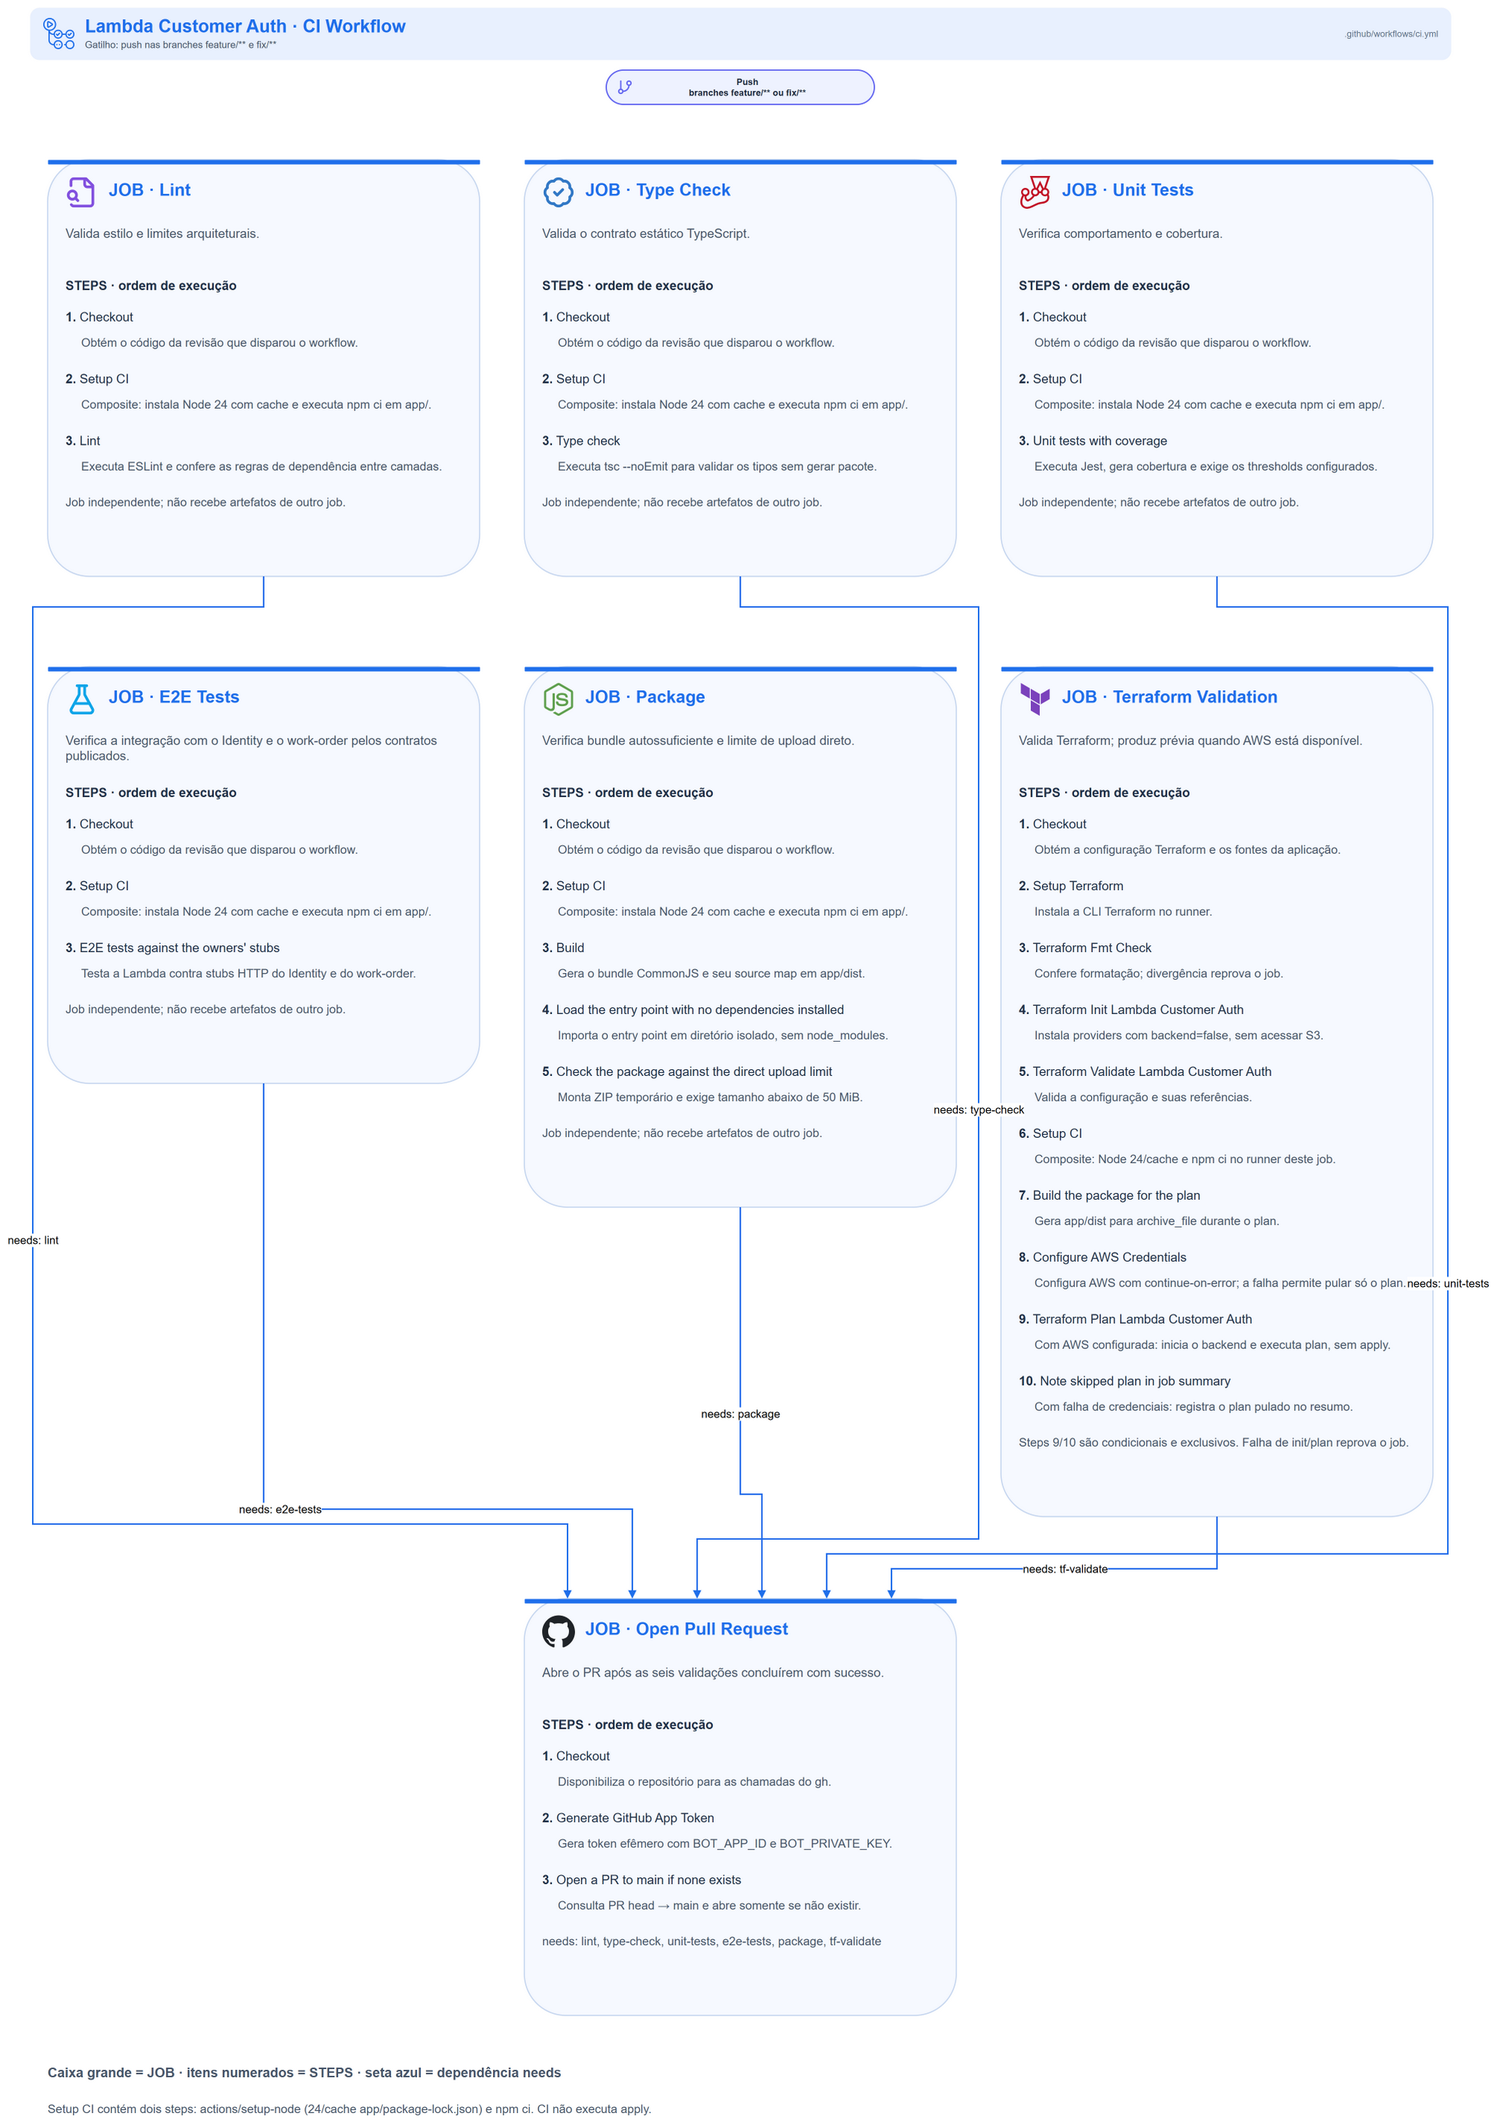
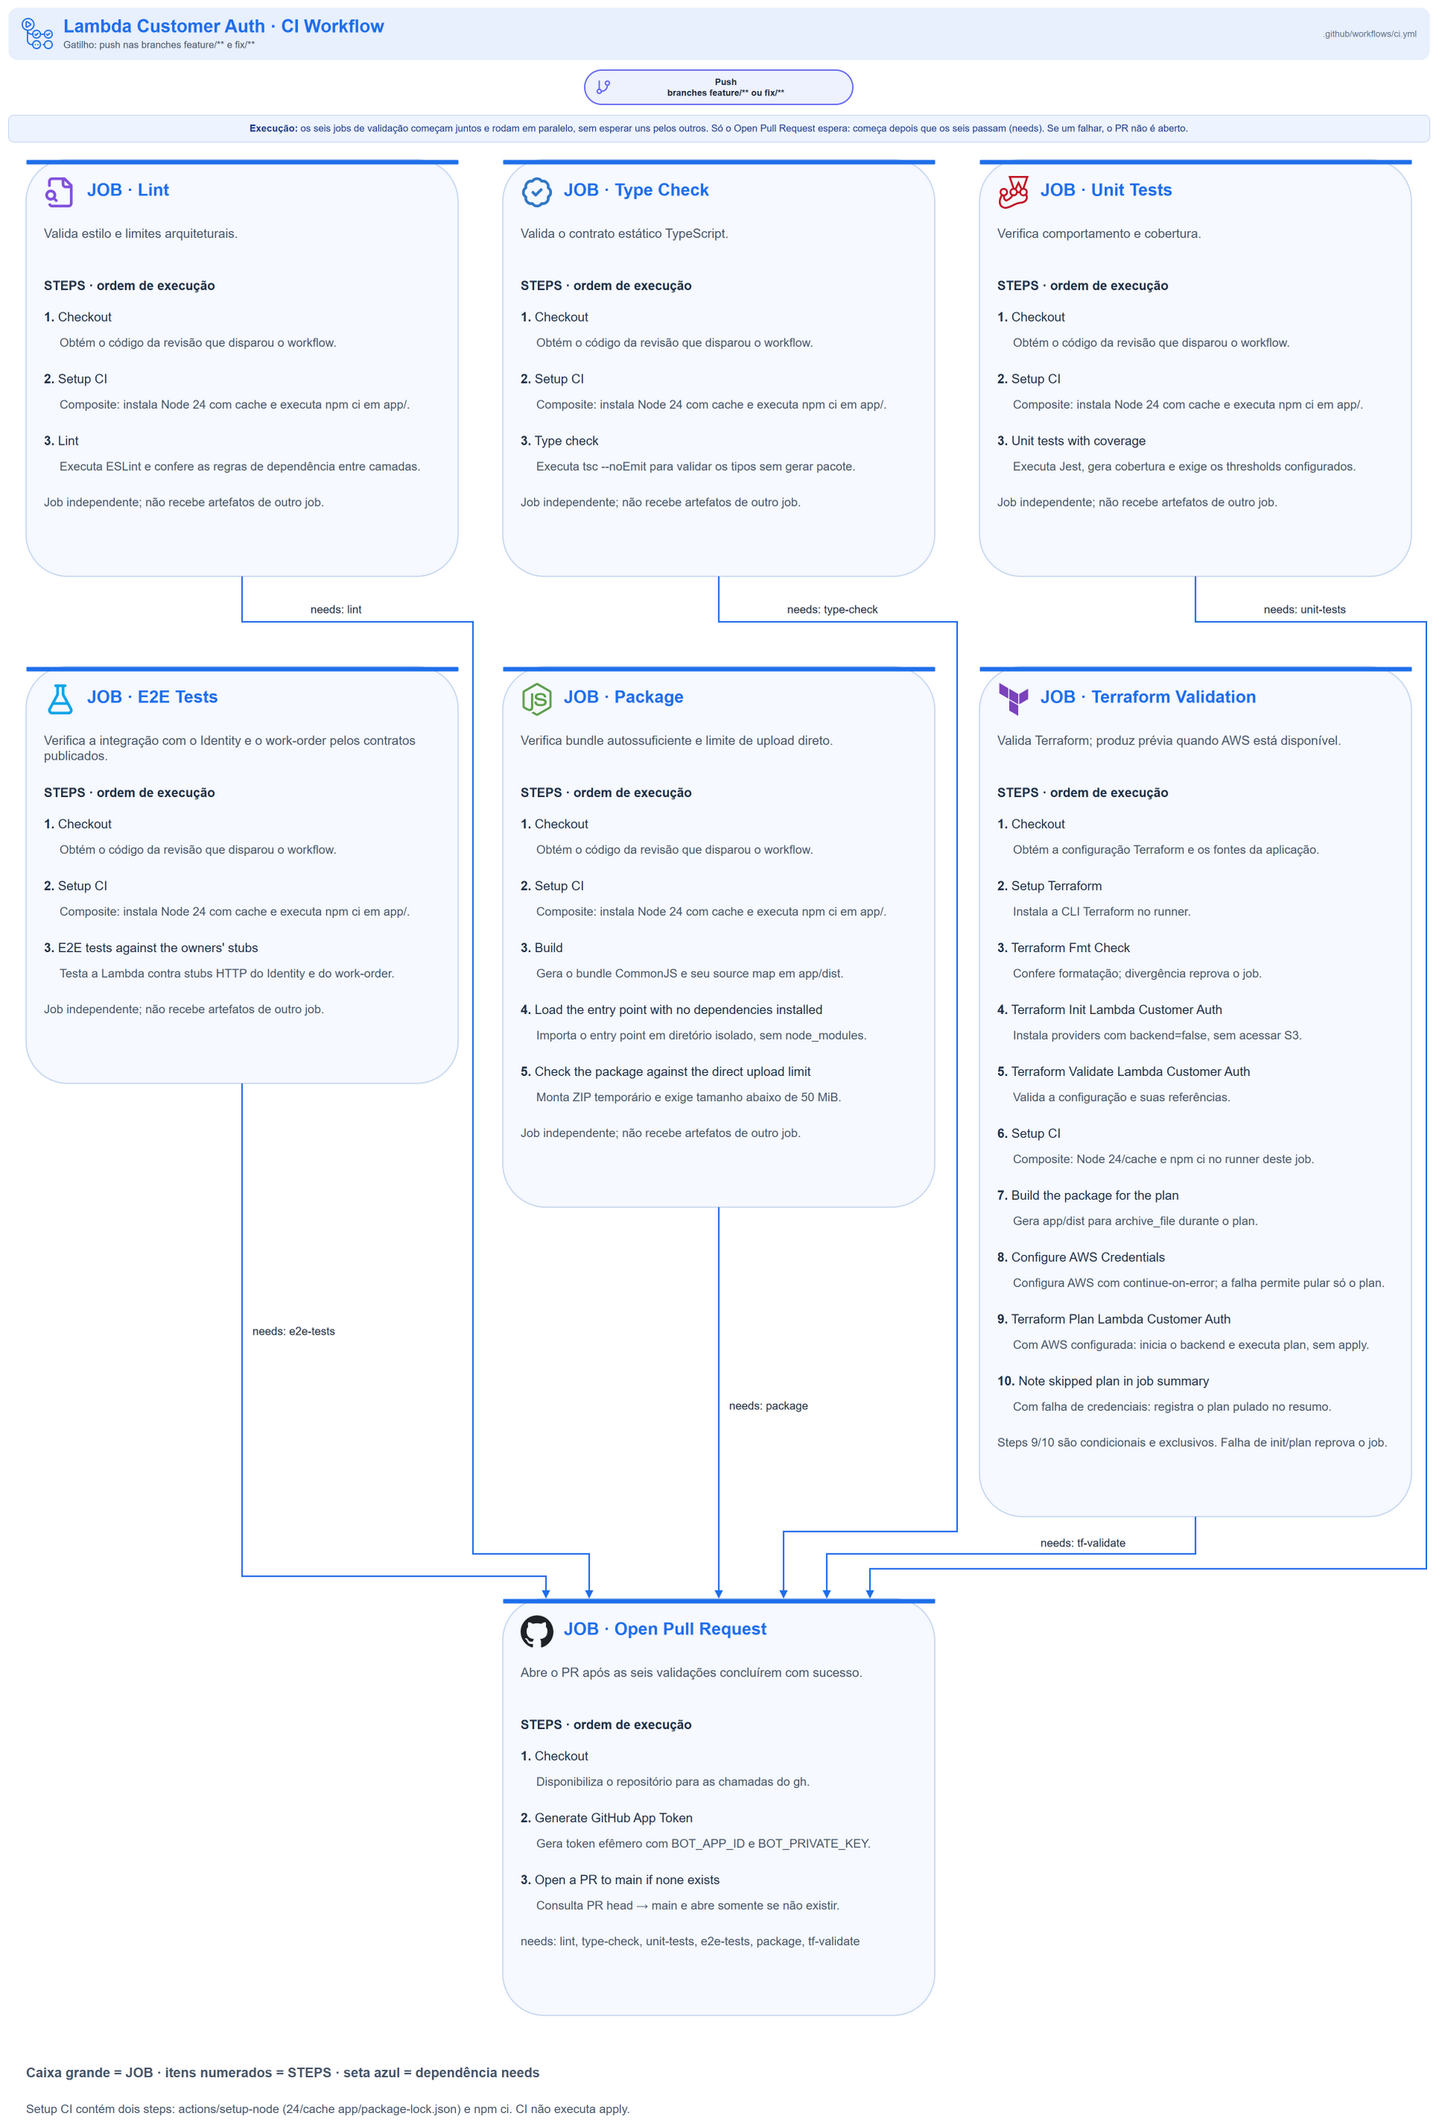
docs(lambda-customer-auth): name post-deploy checks, redraw ci and sast

diff --git a/docs/ci-cd.md b/docs/ci-cd.md
@@ -31,8 +31,8 @@ branch cancela a execução anterior.
 
 Uma branch fora de `feature/**` e `fix/**` não produz execução do CI.
 O SAST ainda pode executar em um Pull Request para `main`.
-Combinada com as verificações obrigatórias da `main`, essa ausência **é o quality gate
-de nomenclatura de branch**: o Pull Request fica em "aguardando reporte" até a
+Combinada com as verificações obrigatórias da `main`, essa ausência **é o que impõe
+o nome da branch**: o Pull Request fica em "aguardando reporte" até a
 branch ser renomeada. É intencional, e não se corrige afrouxando o gatilho.
 
 Os seis jobs de validação executam em paralelo. A abertura do Pull Request
@@ -203,13 +203,13 @@ aguarda o quality gate e reprova quando ele reprova.
 
 ## Entrega contínua
 
-![CD Workflow: gatilho em push na main ou workflow_dispatch, quality gate de entrada
+![CD Workflow: gatilho em push na main ou workflow_dispatch, condições de entrada
 por branch e interruptor, e os jobs Deploy Lambda (14 steps) e Post-Deploy Gates
-(4 steps: credenciais AWS e os três quality gates — invocação direta e rota pública
+(4 steps: credenciais AWS e as três verificações pós-implantação — invocação direta e rota pública
 com CPF inexistente, que exigem 401, e login do cliente semeado, que exige 200
 e o token aceito pelo work-order), ligados por needs: deploy](diagrams/cd-workflow.png)
 
-### Quality gates de entrada
+### Condições de entrada
 
 Duas condições de entrada e o escopo do job:
 
@@ -239,14 +239,14 @@ A entrega e a verificação vivem em **jobs separados**, encadeados por `needs`.
 
 | Job | O que faz | Quando executa |
 | --- | --- | --- |
-| `Deploy Lambda` | Publica a função (`apply` padrão) ou destrói a infraestrutura da função (`action=destroy`) | Passados os três quality gates de entrada |
+| `Deploy Lambda` | Publica a função (`apply` padrão) ou destrói a infraestrutura da função (`action=destroy`) | Atendidas as condições de entrada |
 | `Post-Deploy Gates` | Prova que o que foi publicado atende | Só se a entrega concluir com sucesso e `action != 'destroy'` |
 
-A separação é de leitura, e ela importa: quando um quality gate reprova, a função
+A separação é de leitura, e ela importa: quando uma verificação reprova, a função
 **foi** publicada — o que falhou foi a verificação. Com tudo no mesmo job, um
 `Deploy Lambda` vermelho sugeriria que o provisionamento não aconteceu, e a
-reação instintiva seria reverter. É o oposto do certo: os modos de falha que os
-quality gates pegam se consertam **para frente**.
+reação instintiva seria reverter. É o oposto do certo: os modos de falha que as
+verificações pegam se consertam **para frente**.
 
 `needs` sozinho já é a condição do segundo job — ele é pulado junto com o
 primeiro quando o interruptor está desligado, e não executa quando a entrega
@@ -285,13 +285,13 @@ falha.
 O nome da função e o endereço público chegam pelas saídas do job de entrega —
 nada é digitado, e nada é recalculado.
 
-### Os três quality gates pós-implantação
+### As três verificações pós-implantação
 
-Um provisionamento verde não é evidência de que a solução responde de fora. Os
+Um provisionamento verde não é evidência de que a solução responde de fora. As
 três vivem no job `Post-Deploy Gates`, depois de a entrega concluir, e qualquer
-um deles reprova a entrega.
+uma delas reprova a entrega.
 
-**Quality gate 1 — invocação direta.** Invoca a função com o CPF sintético
+**Verificação 1 — invocação direta.** Invoca a função com o CPF sintético
 `529.982.247-25`: válido pelos dígitos verificadores e ausente dos dados de
 exemplo (seeds) do Identity e do work-order. Prova, em cadeia: o pacote carrega,
 a configuração é válida, o segredo foi lido, a chave de assinatura importou e a
@@ -307,7 +307,7 @@ A discriminação vem de graça do tradutor de respostas que a função já tem:
 | `500` | Configuração inválida ou falha de assinatura |
 | Ausência de resposta da aplicação | Pacote ou rede quebrados |
 
-**Quality gate 2 — rota pública.** Envia o mesmo CPF a `POST /customer-auth/login` e
+**Verificação 2 — rota pública.** Envia o mesmo CPF a `POST /customer-auth/login` e
 exige `401`. O único elo que a invocação direta **não** exercita é a autorização
 de invocação concedida ao API Gateway. Sem ela a rota responde erro de
 integração com a função existindo e saudável — exatamente o estado que esta
@@ -320,7 +320,7 @@ ter vindo da função.
 Esse modo de falha **não se corrige revertendo**: a função está saudável, quem
 está errado é o recurso de autorização, e o conserto é para frente.
 
-**Quality gate 3 — login do cliente semeado.** Os dois primeiros só exercitam a recusa.
+**Verificação 3 — login do cliente semeado.** As duas primeiras só exercitam a recusa.
 Este faz o login de um cliente que existe no Identity e tem vínculo ativo no
 work-order, com o CPF e a senha guardados nos secrets `SEEDED_CUSTOMER_CPF` e
 `SEEDED_CUSTOMER_PASSWORD`, e exige `200`. Com o token recebido, chama
@@ -394,8 +394,8 @@ ser renovadas **juntas**.
 | `SONAR_TOKEN` | Segredo | SAST | Autenticação no serviço de análise estática | Sim |
 | `ENABLE_DEPLOY` | Variável | CD | Interruptor de entrega. Ausente ou diferente de `true`, o merge não provoca provisionamento. **Precisa ser de repositório**: a condição está no `if` do job, avaliado antes de o environment ser aplicado | Não (equivale a desligado) |
 | `ENABLE_TELEMETRY_COLLECTION` | Variável | CD | Interruptor da camada de coleta | Não (equivale a desligado) |
-| `SEEDED_CUSTOMER_CPF` | Segredo | CD | CPF do cliente semeado no Identity com vínculo ativo no work-order (`12345678909`), usado pelo quality gate 3 | Sim, para o quality gate 3 |
-| `SEEDED_CUSTOMER_PASSWORD` | Segredo | CD | Senha do seed do Identity para esse cliente | Sim, para o quality gate 3 |
+| `SEEDED_CUSTOMER_CPF` | Segredo | CD | CPF do cliente semeado no Identity com vínculo ativo no work-order (`12345678909`), usado pela verificação 3 | Sim, para a verificação 3 |
+| `SEEDED_CUSTOMER_PASSWORD` | Segredo | CD | Senha do seed do Identity para esse cliente | Sim, para a verificação 3 |
 
 Os dois `SEEDED_CUSTOMER_*` ficam no repositório, e não no environment, porque
 são a credencial de um cliente de exemplo criado pelo seed, cujo valor já está
@@ -436,8 +436,8 @@ criaria um segundo lugar para expirar.
 6. Confirmar que a cota de execuções concorrentes da conta comporta a reserva
    pretendida, deixando ao menos cem execuções não reservadas.
 7. Cadastrar `SEEDED_CUSTOMER_CPF` e `SEEDED_CUSTOMER_PASSWORD` como secrets do
-   repositório, com o CPF e a senha do cliente semeado no Identity. Sem eles, o
-   quality gate 3 reprova indicando os dois nomes.
+   repositório, com o CPF e a senha do cliente semeado no Identity. Sem eles, a
+   verificação 3 reprova indicando os dois nomes.
 
 ### Exposição aceita conscientemente
 
@@ -525,16 +525,16 @@ e voltaria a depender da mesma gravação.
 | Alternativa | Por que não |
 | --- | --- |
 | Federação por identidade do provedor de código | Exigiria criar um provedor de identidade **e** uma role. O laboratório não permite criar roles. Não é preferência, é impossibilidade |
-| Ampliar os prefixos de branch que disparam a validação | Transformaria o quality gate de nomenclatura de branch em convenção não verificada |
+| Ampliar os prefixos de branch que disparam a validação | Transformaria a exigência do nome da branch em convenção não verificada |
 | Gatilho por evento de Pull Request na validação | Duplicaria toda execução |
 | Verificação de tipos como passo dentro da construção | Economizaria uma instalação de dependências, ao custo de enfileirar a verificação mais provável de reprovar atrás de uma construção que passaria de qualquer forma |
-| E2E contra o Identity e o work-order reais, clonados e construídos na esteira | Exigiria construir e subir dois serviços com os seus bancos a cada `push`, e uma mudança alheia tornaria esta validação vermelha sem commit local; as fixtures publicadas pelos donos fixam o contrato, e o quality gate 3 prova contra os serviços reais |
+| E2E contra o Identity e o work-order reais, clonados e construídos na esteira | Exigiria construir e subir dois serviços com os seus bancos a cada `push`, e uma mudança alheia tornaria esta validação vermelha sem commit local; as fixtures publicadas pelos donos fixam o contrato, e a verificação 3 prova contra os serviços reais |
 | A validação produz o `.zip` e a entrega o consome como artefato | Exigiria acoplamento entre workflows por evento de execução ou download por identificador |
 | Envio do pacote via armazenamento de objetos | Necessário apenas acima do limite de envio direto, que este pacote não alcança |
 | Apelido de versão da função | Exigiria mudar `locals.tf` do repositório do gateway e qualificar a autorização de invocação — uma mudança entre repositórios para obter uma reversão que reverter o commit já entrega |
 | Só a invocação direta como verificação, com a rota pública em procedimento manual | Manteria sem dono o único elo que esta entrega existe para fechar |
 | Só a chamada à rota pública | Perderia a discriminação entre `401`, `503`, `500` e ausência de resposta que a invocação direta entrega de graça |
-| Manter o CPF sintético `123.456.789-09` nos quality gates 1 e 2 | É o CPF do João, cliente semeado no Identity: o quality gate viraria uma senha errada de um usuário real, sem provar o caminho de "CPF inexistente", e registraria uma recusa para ele a cada entrega |
+| Manter o CPF sintético `123.456.789-09` nas verificações 1 e 2 | É o CPF do João, cliente semeado no Identity: a verificação viraria uma senha errada de um usuário real, sem provar o caminho de "CPF inexistente", e registraria uma recusa para ele a cada entrega |
 | Remover a prévia de infraestrutura da validação | Eliminaria a exposição da credencial e moveria a revisão da diferença para depois da integração, onde ninguém a lê |
 | Prévia sob aprovação em environment próprio | Resolveria a exposição, ao custo de uma cerimônia por pedido de merge e de divergência com os outros quatro repositórios |
 | Análise dinâmica de segurança | [ADR 0006](adr/0006-sem-analise-dinamica.md) |

diff --git a/README.md b/README.md
@@ -171,7 +171,7 @@ Todos rodam a partir de `app/`.
 | 📊 [Logging](docs/logging.md) | Envelope, dicionário completo, eventos, níveis e a tabela de divergências |
 | 💻 [Como executar localmente](docs/local-setup.md) | A invocação avulsa, o stub local e os serviços locais |
 | 🧪 [Testes](docs/testing.md) | Os dois níveis, o stub e as fixtures, propriedades travadas por teste e cobertura |
-| 🔁 [CI/CD](docs/ci-cd.md) | Os três workflows, cada job e o que o reprova, os três quality gates pós-implantação, o inventário de configuração externa e o guia de solução de problemas |
+| 🔁 [CI/CD](docs/ci-cd.md) | Os três workflows, cada job e o que o reprova, as três verificações pós-implantação, o inventário de configuração externa e o guia de solução de problemas |
 | ☁ [Infraestrutura](docs/terraform.md) | O que a stack provisiona, a fronteira entre repositórios, o consumo de state remoto e as variáveis da função |
 | 🔭 [Observabilidade](docs/observability.md) | Os sinais que a função produz, a camada que os coleta, os eixos de correlação e o que não é instrumentado |
 | 📐 [ADR 0001](docs/adr/0001-driver-em-vez-de-orm.md) | Driver em vez de ORM (substituído pelo ADR 0007) |
@@ -208,7 +208,7 @@ dono do dado.
 - A esteira valida toda mudança em seis verificações paralelas (Lint, Type
   Check, Unit Tests, E2E Tests, Package e Terraform Validation), a análise
   estática impõe o seu quality gate, e a entrega provisiona a função e a
-  publica — terminando em **três quality gates**: a invocação direta e a rota pública,
+  publica — terminando em **três verificações pós-implantação**: a invocação direta e a rota pública,
   ambas exigindo recusa de uma credencial inexistente, e o login de um cliente
   semeado, cujo token o work-order precisa aceitar.
 - A infraestrutura vive em [`infra/`](infra/): a função em subnets

diff --git a/docs/terraform.md b/docs/terraform.md
@@ -238,7 +238,7 @@ convenção de nome e não remove a rota automaticamente.
 Pré-requisitos de nuvem:
 
 - Infra-base, Kubernetes e gateway aplicados, na ordem do grafo acima.
-- Identity e work-order implantados no cluster, para que os quality gates da entrega
+- Identity e work-order implantados no cluster, para que as verificações da entrega
   aprovem.
 - AWS CLI, Terraform ≥ 1.11 e credenciais AWS válidas.
 - Role existente (`LabRole` por padrão), com trust Lambda, acesso ao segredo da
@@ -247,7 +247,7 @@ Pré-requisitos de nuvem:
   e chave pública correspondente configurada no work-order.
 
 O CD é o roteiro completo: constrói, aplica, grava a chave idempotentemente
-e executa os três quality gates. Um `terraform apply` local cria somente o contêiner
+e executa as três verificações pós-implantação. Um `terraform apply` local cria somente o contêiner
 do segredo; não grava o PEM, e a função só fica utilizável depois dessa escrita.
 
 ```bash
@@ -256,7 +256,7 @@ terraform apply
 # Conferir os identificadores; nenhuma saída contém a chave privada
 terraform output function_name
 terraform output jwt_private_key_secret_arn
-# Preferir o CD para gravar a chave e executar os quality gates de implantação
+# Preferir o CD para gravar a chave e executar as verificações pós-implantação
 ```
 
 Para remover o ambiente, remova a Lambda antes do gateway, do cluster e da rede:

diff --git a/docs/adr/0007-credencial-e-vinculo-verificados-nos-servicos-donos.md b/docs/adr/0007-credencial-e-vinculo-verificados-nos-servicos-donos.md
@@ -106,4 +106,4 @@ cujo token o work-order precisa aceitar.
 - [Contrato › Chamadas internas](../contracts.md#chamadas-internas)
 - [Arquitetura › Gateways e o cliente HTTP interno](../architecture.md#gateways-e-o-cliente-http-interno)
 - [Testes › Ponta a ponta](../testing.md#ponta-a-ponta--npm-run-teste2e)
-- [CI/CD › Os três quality gates pós-implantação](../ci-cd.md#os-três-quality-gates-pós-implantação)
+- [CI/CD › As três verificações pós-implantação](../ci-cd.md#as-três-verificações-pós-implantação)

diff --git a/docs/adr/0006-sem-analise-dinamica.md b/docs/adr/0006-sem-analise-dinamica.md
@@ -39,7 +39,7 @@ Quatro razões independentes — cada uma bastaria:
 
 No repositório do API Gateway, que é dono da superfície pública real.
 
-E lá, como **execução manual contra ambiente descartável** — nunca como quality gate de
+E lá, como **execução manual contra ambiente descartável** — nunca como verificação obrigatória de
 Pull Request, pelo motivo que aquele repositório já registrou: exigiria o
 laboratório ligado e escanearia ativamente um ambiente compartilhado.
 
